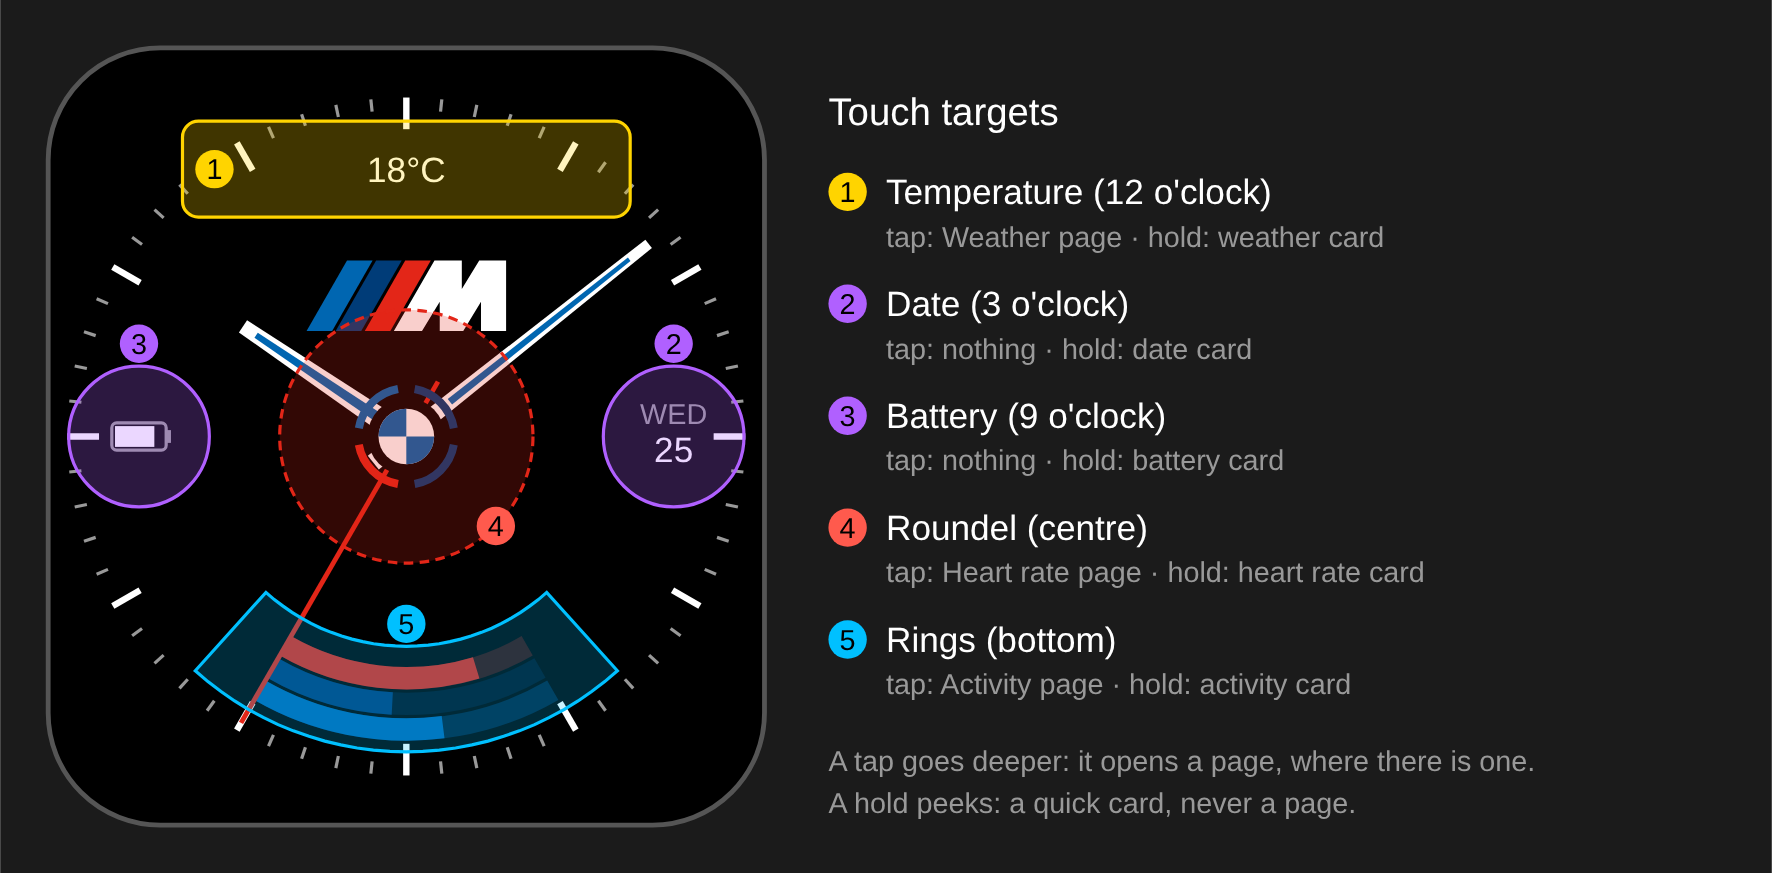
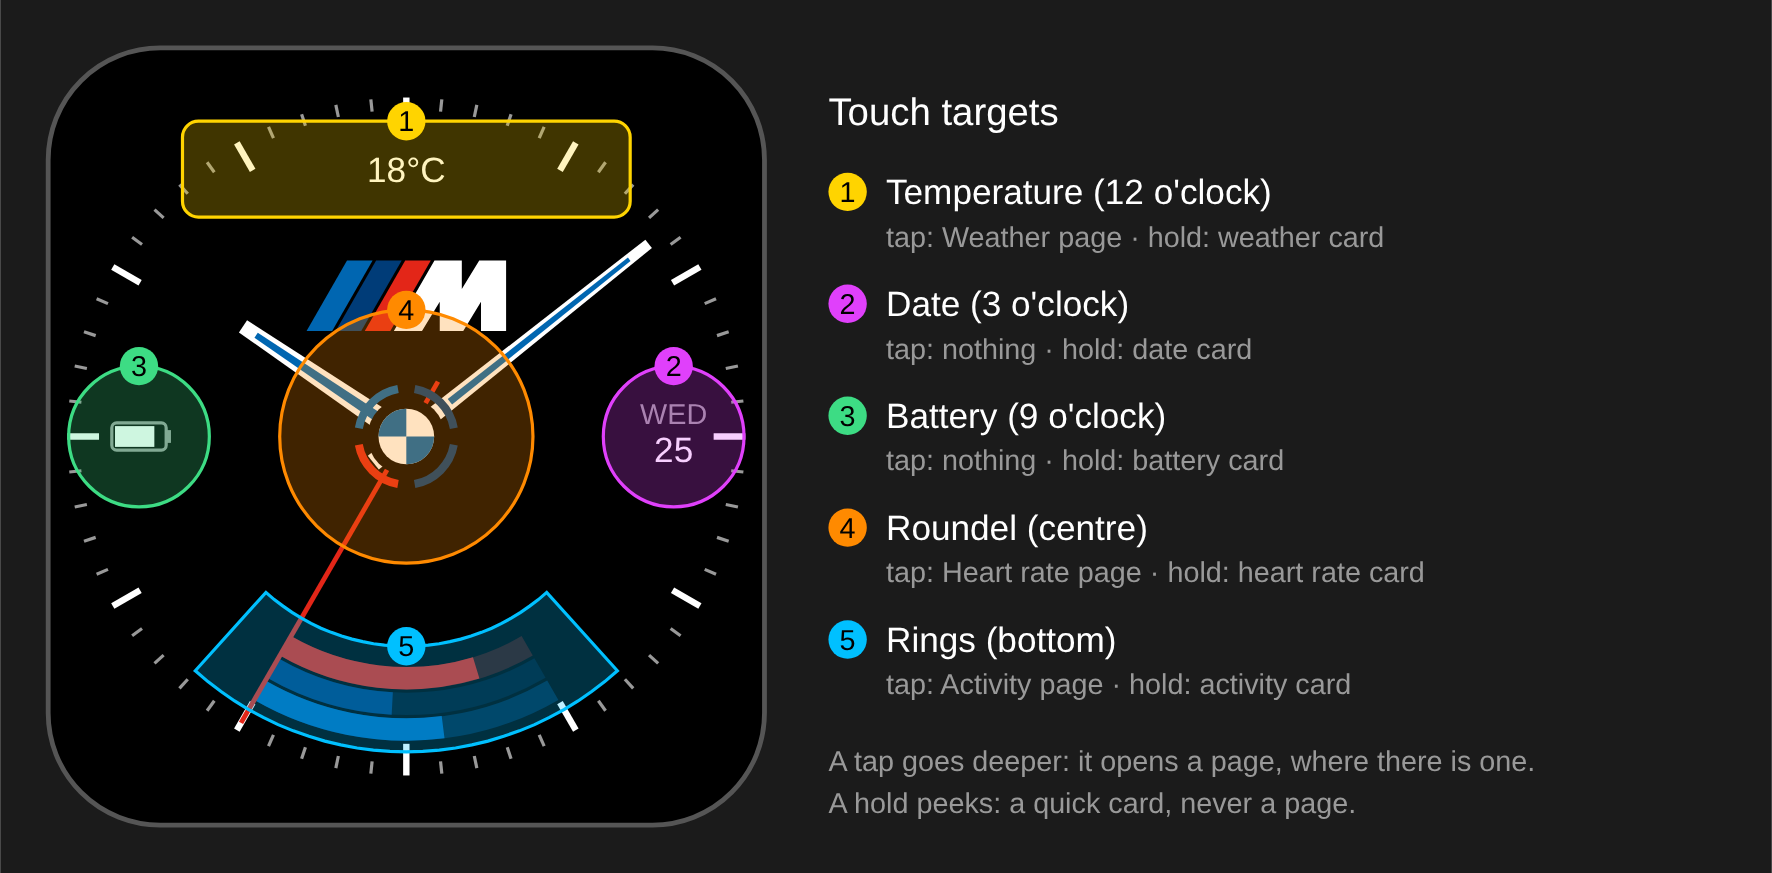
Touch targets image: one colour per target, numbers in a consistent spot
Give each of the five targets its own hue (yellow, magenta, green, orange, cyan) chosen to
be far apart and unlike any watch colour, defined once and shared by the overlay and the
legend. Centre every number badge on the top edge of its target's outline.

Claude-Session: https://claude.ai/code/session_01CEiR5mX4CwQUtKoZKTxSUA

diff --git a/tools/wireframes.py b/tools/wireframes.py
@@ -49,6 +49,7 @@ BLUE_DIM, NAVY_DIM, RED_DIM = col("BLUE_DIM"), col("NAVY_DIM"), col("RED_DIM")
 WHITE, BLACK = col("WHITE"), col("BLACK")
 GREY = col("GREY")
 CHROME = "#555555"          # the mock watch bezel in the images; not part of the face
+ZONE_COLORS = {1: "#FFD400", 2: "#E040FB", 3: "#3DDC84", 4: "#FF8A00", 5: "#00C0FF"}   # touch targets: yellow, magenta, green, orange, cyan
 GAP, TICK_INSET = num("GAP"), num("TICK_INSET")
 TICK_MAJOR, TICK_MINOR = num("TICK_MAJOR"), num("TICK_MINOR")
 MARGIN, ROW_PITCH = num("MARGIN"), num("ROW_PITCH")
@@ -257,24 +258,25 @@ def dial_into(s, ox, oy, zones=False, card=None):
            (CX + math.sin(a) * R * .94, CY - math.cos(a) * R * .94), RED, 3)
     draw_roundel(s)
     if zones:
-        s.add('<rect x="%.1f" y="%.1f" width="280" height="60" rx="10" fill="#FFD400" fill-opacity=".25" '
-              'stroke="#FFD400" stroke-width="2"/>' % (CX - 140, temp_y - 30))
-        for zx in (CX + arc, CX - arc):
-            s.add('<circle cx="%.1f" cy="%.1f" r="%.1f" fill="#B060FF" fill-opacity=".25" stroke="#B060FF" '
-                  'stroke-width="2"/>' % (zx, CY, R * .2))
-        s.add('<circle cx="%.1f" cy="%.1f" r="%.1f" fill="%s" fill-opacity=".22" stroke="%s" '
-              'stroke-width="2" stroke-dasharray="6 4"/>' % (CX, CY, R * .36, RED, RED))
+        # One colour per target, far apart in hue and none of them a watch colour (blue, navy,
+        # red, white, grey), so the overlay never reads as part of the face.
         r_hi, r_lo = RING_OUT + 14, RING_OUT - 2 * PITCH - 20
+        z = ZONE_COLORS
+        shape = 'fill="%s" fill-opacity=".25" stroke="%s" stroke-width="2"'
+        s.add('<rect x="%.1f" y="%.1f" width="280" height="60" rx="10" %s/>'
+              % (CX - 140, temp_y - 30, shape % (z[1], z[1])))
+        s.add('<circle cx="%.1f" cy="%.1f" r="%.1f" %s/>' % (CX + arc, CY, R * .2, shape % (z[2], z[2])))
+        s.add('<circle cx="%.1f" cy="%.1f" r="%.1f" %s/>' % (CX - arc, CY, R * .2, shape % (z[3], z[3])))
+        s.add('<circle cx="%.1f" cy="%.1f" r="%.1f" %s/>' % (CX, CY, R * .36, shape % (z[4], z[4])))
         band = [pt(r_hi, a_) for a_ in range(228, 313, 3)] + [pt(r_lo, a_) for a_ in range(312, 227, -3)]
-        s.add('<polygon points="%s" fill="#00C0FF" fill-opacity=".22" stroke="#00C0FF" stroke-width="2"/>'
-              % pts(band))
-    if zones:
-        badge = lambda x, y, n, c: (s.circle(x, y, 12, c), s.text(x, y, str(n), "label", BLACK))
-        badge(CX - 120, temp_y, 1, "#FFD400")                       # temperature
-        badge(CX + arc, CY - R * .2 - 14, 2, "#B060FF")             # date
-        badge(CX - arc, CY - R * .2 - 14, 3, "#B060FF")             # battery
-        badge(CX + R * .36 * .707, CY + R * .36 * .707, 4, "#FF5A4D")   # roundel: on its circle's lower right
-        badge(CX, CY + RING_OUT - 2 * PITCH - 20 - 14, 5, "#00C0FF")   # rings
+        s.add('<polygon points="%s" %s/>' % (pts(band), shape % (z[5], z[5])))
+        # The number badge always sits centred on the top edge of its target's outline.
+        badge = lambda x, y, n: (s.circle(x, y, 12, z[n]), s.text(x, y, str(n), "label", BLACK))
+        badge(CX, temp_y - 30, 1)                       # temperature: top of its band
+        badge(CX + arc, CY - R * .2, 2)                 # date: top of its circle
+        badge(CX - arc, CY - R * .2, 3)                 # battery: top of its circle
+        badge(CX, CY - R * .36, 4)                      # roundel: top of its circle
+        badge(CX, CY + r_lo, 5)                         # rings: top (inner edge) of the wedge
     if card:
         draw_card(s, card)
     s.add("</g>")
@@ -288,11 +290,11 @@ def tap_zones():
     dial_into(s, 0, 0, True)
     x0 = W + 40
     s.text(x0, 40, "Touch targets", "title", WHITE, "start")
-    rows = [("1", "#FFD400", "Temperature (12 o'clock)", "tap: Weather page", "hold: weather card"),
-            ("2", "#B060FF", "Date (3 o'clock)", "tap: nothing", "hold: date card"),
-            ("3", "#B060FF", "Battery (9 o'clock)", "tap: nothing", "hold: battery card"),
-            ("4", "#FF5A4D", "Roundel (centre)", "tap: Heart rate page", "hold: heart rate card"),
-            ("5", "#00C0FF", "Rings (bottom)", "tap: Activity page", "hold: activity card")]
+    rows = [("1", ZONE_COLORS[1], "Temperature (12 o'clock)", "tap: Weather page", "hold: weather card"),
+            ("2", ZONE_COLORS[2], "Date (3 o'clock)", "tap: nothing", "hold: date card"),
+            ("3", ZONE_COLORS[3], "Battery (9 o'clock)", "tap: nothing", "hold: battery card"),
+            ("4", ZONE_COLORS[4], "Roundel (centre)", "tap: Heart rate page", "hold: heart rate card"),
+            ("5", ZONE_COLORS[5], "Rings (bottom)", "tap: Activity page", "hold: activity card")]
     for i, (n, c, name, tap, hold) in enumerate(rows):
         y = 90 + i * 70
         s.circle(x0 + 12, y, 12, c)
